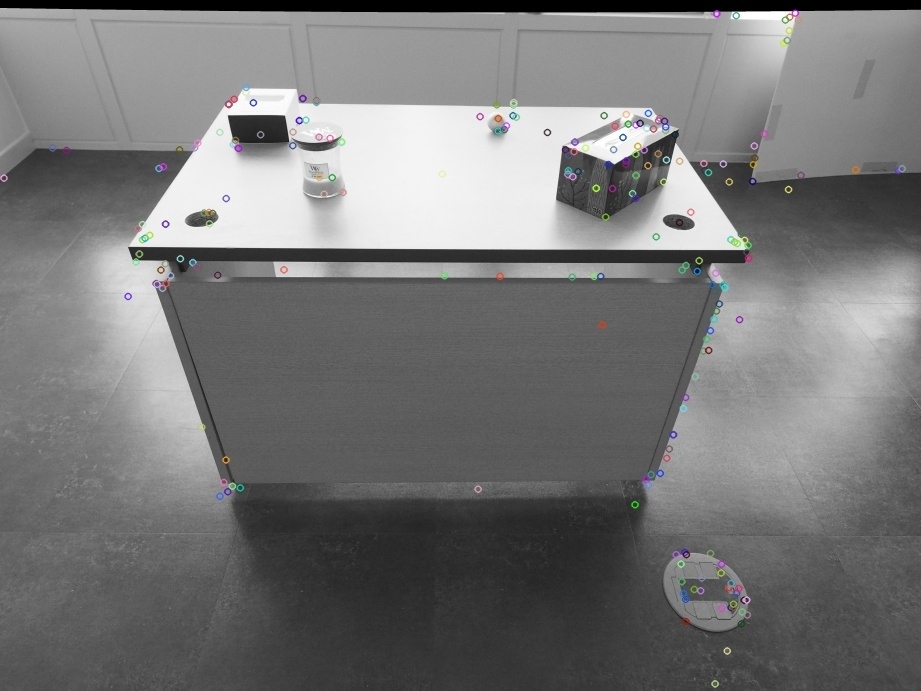
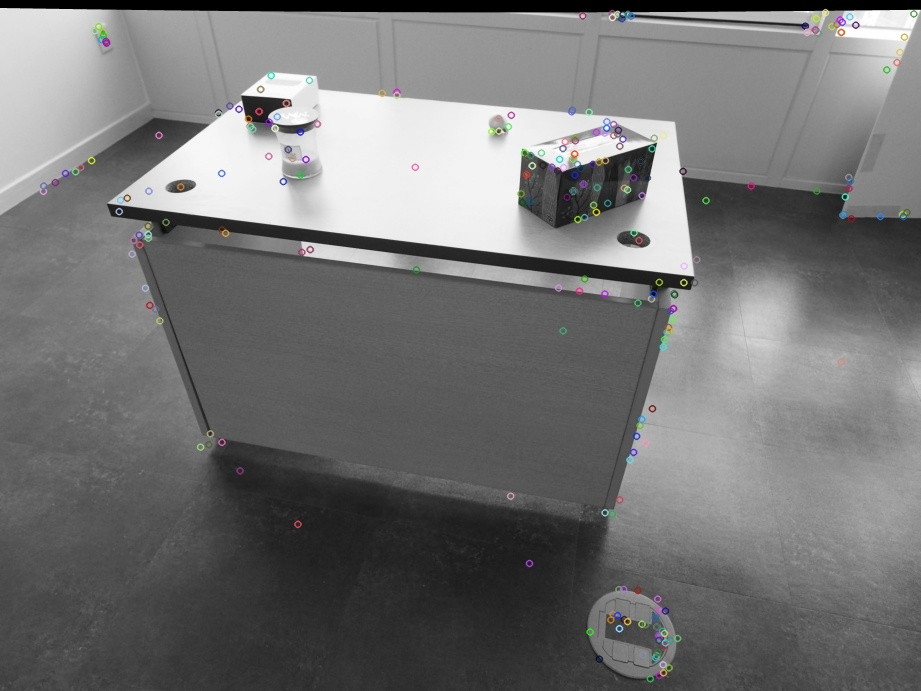
**

diff --git a/test_sift_01_show_keypoints.py b/test_sift_01_show_keypoints.py
@@ -13,7 +13,8 @@ dirname = os.path.dirname(__file__)
 dirname and os.chdir( dirname )
 dirname and print( "Pwd 2: %s" % os.getcwd())
 
-img_path = "./data_yegan/set_01/_1018843.JPG"
+img_path = "./data_yegan/set_00/01_left.jpg"
+img_path = "./data_yegan/set_00/02_right.jpg"
 img = cv.imread( img_path )
 
 # resize image
@@ -34,7 +35,7 @@ img = cv.drawKeypoints( gray, kp, img )
 
 cv.imwrite('sift_keypoints.jpg',img)
 
-cv.imshow( "SIFT", img )
+cv.imshow( "SIFT B", img )
 
 cv.waitKey(0)  
   
